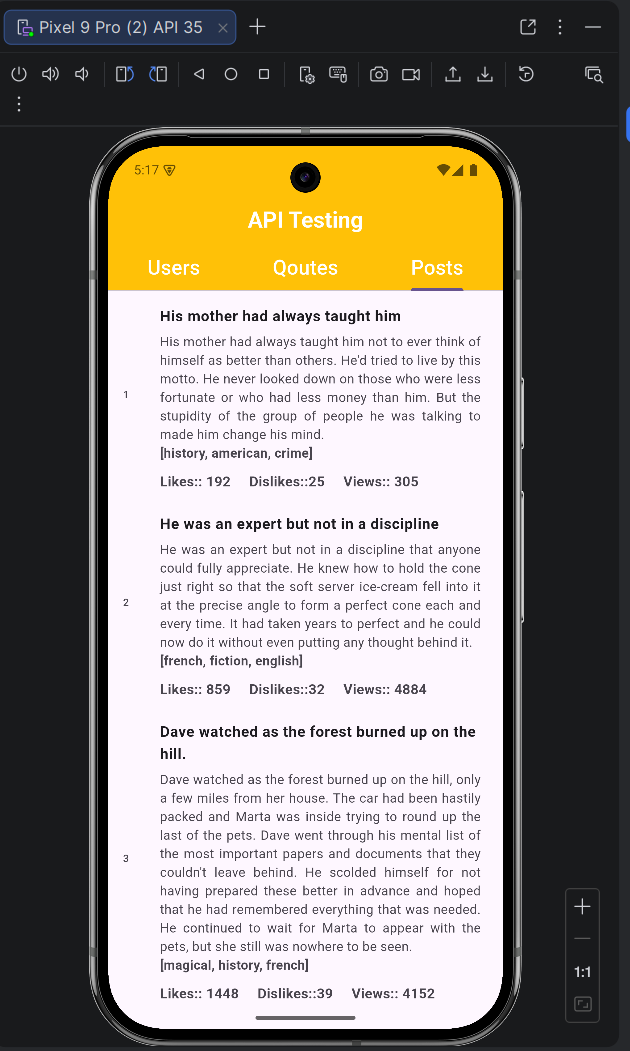
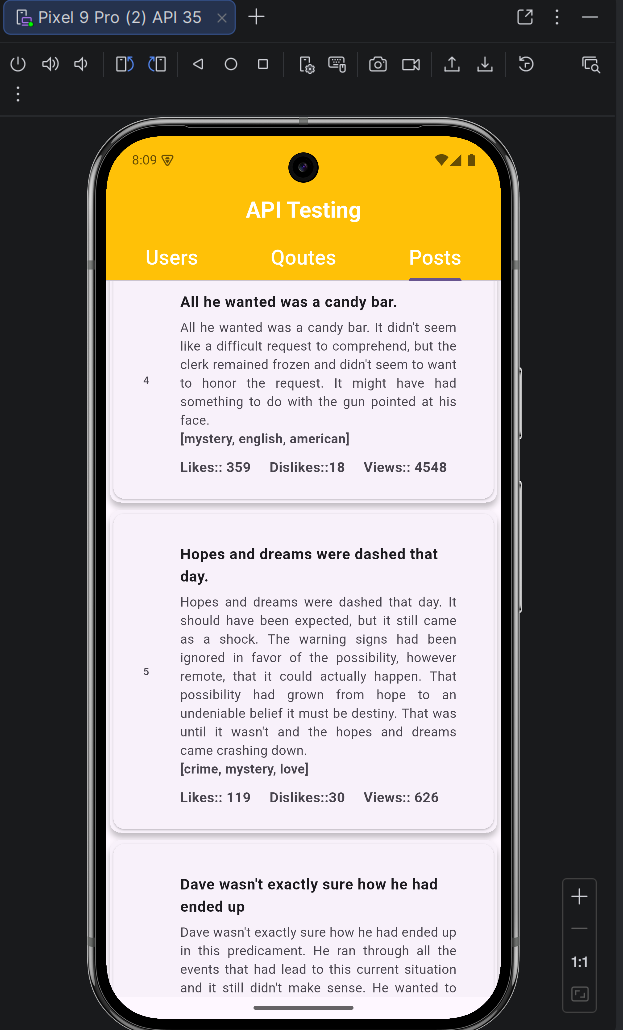
Initial commit

diff --git a/lib/screens/home_screen.dart b/lib/screens/home_screen.dart
@@ -83,16 +83,22 @@ class _HomeScreenState extends State<HomeScreen> {
                       itemCount: users.length,
                       itemBuilder: (context, index) {
                         final user = users[index];
-                        return ListTile(
-                          leading: CircleAvatar(
-                            backgroundImage: NetworkImage(user.image),
+                        return Card(
+                          elevation: 3,
+                          child: Padding(
+                            padding: EdgeInsets.all(16),
+                            child: ListTile(
+                              leading: CircleAvatar(
+                                backgroundImage: NetworkImage(user.image),
+                              ),
+                              title: Text(
+                                '${user.firstName} ${user.lastName}',
+                                style: TextStyle(fontWeight: FontWeight.bold),
+                              ),
+                              subtitle: Text('${user.email} • ${user.university}'),
+                              trailing: Text('Age: ${user.age}'),
+                            ),
                           ),
-                          title: Text(
-                            '${user.firstName} ${user.lastName}',
-                            style: TextStyle(fontWeight: FontWeight.bold),
-                          ),
-                          subtitle: Text('${user.email} • ${user.university}'),
-                          trailing: Text('Age: ${user.age}'),
                         );
                       },
                     );
@@ -115,18 +121,24 @@ class _HomeScreenState extends State<HomeScreen> {
                       itemCount: quotes.length,
                       itemBuilder: (context, index) {
                         final quote = quotes[index];
-                        return ListTile(
-                          leading: Text('${quote.id}'),
-                          title: Text(
-                            '${quote.author}',
-                            style: TextStyle(
-                              fontWeight: FontWeight.bold,
-                              fontSize: 20,
+                        return Card(
+                          elevation: 3,
+                          child: Padding(
+                            padding: EdgeInsets.all(16),
+                            child: ListTile(
+                              leading: Text('${quote.id}'),
+                              title: Text(
+                                '${quote.author}',
+                                style: TextStyle(
+                                  fontWeight: FontWeight.bold,
+                                  fontSize: 20,
+                                ),
+                              ),
+                              subtitle: Text(
+                                '${quote.quote}',
+                                textAlign: TextAlign.justify,
+                              ),
                             ),
-                          ),
-                          subtitle: Text(
-                            '${quote.quote}',
-                            textAlign: TextAlign.justify,
                           ),
                         );
                       },
@@ -150,55 +162,63 @@ class _HomeScreenState extends State<HomeScreen> {
                       itemCount: posts.length,
                       itemBuilder: (context, index) {
                         final post = posts[index];
-                        return ListTile(
-                          leading: Text('${post.id}'),
-                          title: Padding(
-                            padding: EdgeInsets.only(bottom: 5, top: 8),
-                            child: Text(
-                              '${post.title}',
-                              style: TextStyle(fontWeight: FontWeight.bold),
+                        return Card(
+                          elevation: 5,
+                          child: Card(
+                            child: Padding(
+                              padding: EdgeInsets.all(16),
+                              child: ListTile(
+                                leading: Text('${post.id}'),
+                                title: Padding(
+                                  padding: EdgeInsets.only(bottom: 5, top: 8),
+                                  child: Text(
+                                    '${post.title}',
+                                    style: TextStyle(fontWeight: FontWeight.bold),
+                                  ),
+                                ),
+                                subtitle: Column(
+                                  crossAxisAlignment: CrossAxisAlignment.start,
+                                  children: [
+                                    Text(
+                                      '${post.body}',
+                                      textAlign: TextAlign.justify,
+                                    ),
+                                    Text(
+                                      '${post.tags}',
+                                      style: TextStyle(fontWeight: FontWeight.bold),
+                                    ),
+                                    SizedBox(height: 10),
+                                    Row(
+                                      children: [
+                                        Text(
+                                          'Likes:: ${post.reactions.likes}',
+                                          style: TextStyle(
+                                            fontWeight: FontWeight.bold,
+                                            fontSize: 15,
+                                          ),
+                                        ),
+                                        const SizedBox(width: 20),
+                                        Text(
+                                          'Dislikes::${post.reactions.dislikes}',
+                                          style: TextStyle(
+                                            fontWeight: FontWeight.bold,
+                                            fontSize: 15,
+                                          ),
+                                        ),
+                                        const SizedBox(width: 20),
+                                        Text(
+                                          'Views:: ${post.views}',
+                                          style: TextStyle(
+                                            fontWeight: FontWeight.bold,
+                                            fontSize: 15,
+                                          ),
+                                        ),
+                                      ],
+                                    ),
+                                  ],
+                                ),
+                              ),
                             ),
-                          ),
-                          subtitle: Column(
-                            crossAxisAlignment: CrossAxisAlignment.start,
-                            children: [
-                              Text(
-                                '${post.body}',
-                                textAlign: TextAlign.justify,
-                              ),
-                              Text(
-                                '${post.tags}',
-                                style: TextStyle(fontWeight: FontWeight.bold),
-                              ),
-                              SizedBox(height: 10),
-                              Row(
-                                children: [
-                                  Text(
-                                    'Likes:: ${post.reactions.likes}',
-                                    style: TextStyle(
-                                      fontWeight: FontWeight.bold,
-                                      fontSize: 15,
-                                    ),
-                                  ),
-                                  const SizedBox(width: 20),
-                                  Text(
-                                    'Dislikes::${post.reactions.dislikes}',
-                                    style: TextStyle(
-                                      fontWeight: FontWeight.bold,
-                                      fontSize: 15,
-                                    ),
-                                  ),
-                                  const SizedBox(width: 20),
-                                  Text(
-                                    'Views:: ${post.views}',
-                                    style: TextStyle(
-                                      fontWeight: FontWeight.bold,
-                                      fontSize: 15,
-                                    ),
-                                  ),
-                                ],
-                              ),
-                            ],
                           ),
                         );
                       },
